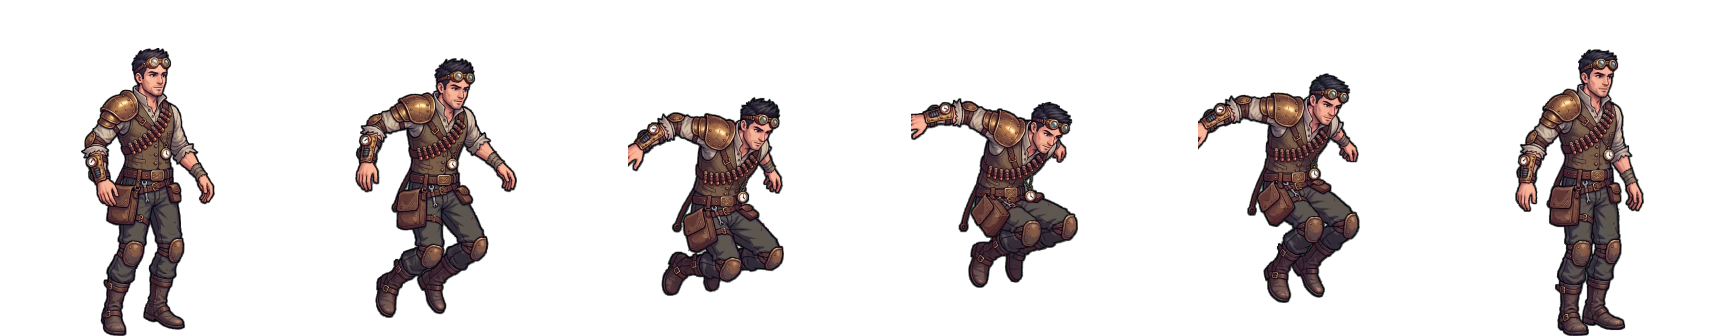
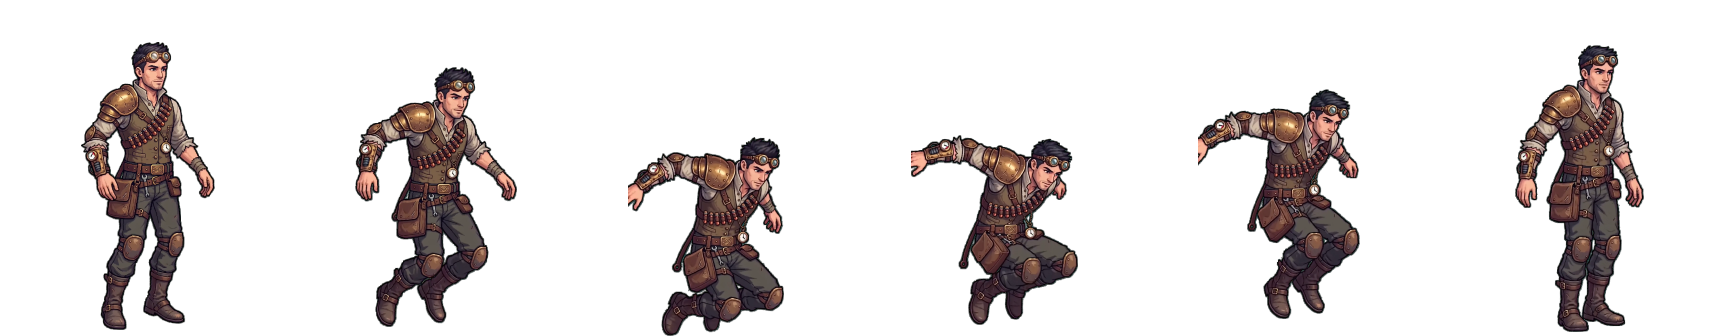
feat(art): jump and fall anchor on the torso, because the sim owns altitude
Chosen on sight from a three-way A/B against a ground line, which is the only
way it could be chosen: foot and head RANGES discard direction and correlation,
so they cannot separate pose deformation from whole-figure drift. That was
Codex plan review blocker 1, and it was right - the plan had declared the
question settled on numbers alone.

What the candidates did, lift per frame in game px:

  jump  feet      0, 32, 44, 19, 30, 51   51px of climb the sim already supplies
        centroid  0,  5, 13, 17, 33, 46
        offset  -32,  0, 12,-13, -2, 19   two frames BELOW the floor
  fall  feet      0, 18, 40, 48, 33,  0   a 48px balloon mid-descent, and back
        centroid  6,  9,  0, 11, 17,  4
        offset  -33,-15,  7, 15,  0,-33   two frames BELOW the floor

stepVertical already moves the sprite every tick, so art that also rises adds a
second, uncorrelated motion. Tracking the vertical centre of mass holds the body
still and lets only the pose change. idle/walk/run stay feet-anchored: there the
ART is what puts the character on the floor, and the lift IS the flight phase.

Centroid lifts are signed, so they are normalised to put the lowest-drawn frame
on the contact line - otherwise a frame lands under the cell floor and the new
vertical guard throws.

The anchor is per-animation config, recorded into lift-profile.json beside the
source coordinates for BOTH landmarks, so the packer's arithmetic is re-derived
in the test rather than trusted.
[…]

diff --git a/tests/unit/sheet-packing.test.ts b/tests/unit/sheet-packing.test.ts
@@ -35,6 +35,7 @@ import { assertSingleRowLayout, packStrip } from '../../tools/gen/sheets.mjs';
 import { readPng } from '../../tools/gen/png.mjs';
 import type { RgbaImage } from '../../tools/gen/png.d.mts';
 import liftProfile from '../../public/assets/config/lift-profile.json';
+import bounds from '../../public/assets/config/character-bounds.json';
 
 /** A cell of `w x h` holding one solid opaque block spanning rows `top..bottom` inclusive. */
 function cellWithFigure(w: number, h: number, top: number, bottom: number, x0 = 4, x1 = 11): RgbaImage {
@@ -137,6 +138,52 @@ describe('packStrip vertical alignment — one baseline per sheet', () => {
     expect(() => packStrip(tall, opts)).toThrow(/clipped by the .*cell vertically|overflows the/i);
   });
 
+  /**
+   * The `centroid` anchor, on a figure built to defeat the feet anchor.
+   *
+   * Frame 1 is the same body drawn at the same height but with its legs "tucked" — the block is
+   * shorter and its bottom is higher, exactly the shape an airborne pose has. Feet-anchoring reads
+   * that as a big lift and shoves the whole body upward; centroid-anchoring sees that the centre of
+   * mass barely moved and leaves it where it is. That difference is the whole argument for the
+   * jump/fall anchor, so it is asserted rather than described.
+   */
+  it('the centroid anchor holds a tucked pose still where the feet anchor would launch it', () => {
+    const tucked = [
+      cellWithFigure(20, 40, 10, 33), // extended: rows 10..33, centroid 21.5
+      cellWithFigure(20, 40, 12, 31), // tucked in from BOTH ends: same centroid 21.5
+    ];
+    const o = { scale: 1, frameWidth: 40, frameHeight: 60, baselineY: 60 };
+    expect(packStrip(tucked, { ...o, anchor: 'feet' }).frames.map((f) => f.liftPx)).toEqual([0, 2]);
+    expect(packStrip(tucked, { ...o, anchor: 'centroid' }).frames.map((f) => f.liftPx)).toEqual([
+      0, 0,
+    ]);
+  });
+
+  it('normalises signed centroid lifts so the lowest-drawn frame rests on the line', () => {
+    // Centroid lifts are signed: a frame whose centre of mass sits BELOW the reference wants to be
+    // drawn under the contact line, which the vertical guard would rightly throw on. Normalising
+    // keeps every inter-frame relationship and only chooses where the set as a whole rests.
+    const cells2 = [
+      cellWithFigure(20, 40, 8, 27), // centroid 17.5
+      cellWithFigure(20, 40, 14, 33), // centroid 23.5 — 6 lower
+    ];
+    const { frames } = packStrip(cells2, {
+      scale: 1,
+      frameWidth: 40,
+      frameHeight: 60,
+      baselineY: 60,
+      anchor: 'centroid',
+    });
+    expect(frames.map((f) => f.liftPx)).toEqual([6, 0]);
+    expect(Math.min(...frames.map((f) => f.liftPx))).toBe(0);
+  });
+
+  it('refuses an anchor it does not implement rather than silently defaulting', () => {
+    expect(() =>
+      packStrip(cells, { ...opts, anchor: 'hips' as unknown as 'feet' }),
+    ).toThrow(/unknown vertical anchor/i);
+  });
+
   it('still throws on a blank frame rather than packing an empty cell (vault 4.16)', () => {
     const blankCell: RgbaImage = { width: 20, height: 30, data: new Uint8ClampedArray(20 * 30 * 4) };
     expect(() => packStrip([cells[0], blankCell], opts)).toThrow(/no opaque pixels/);
@@ -186,46 +233,87 @@ describe('assertSingleRowLayout — the assumption the sheet baseline rests on',
 describe('shipped strips carry the source lift profile (4.19, 4.20)', () => {
   const SHEETS = 'public/assets/characters/brass-courier/sheets';
   const FRAME_WIDTH = 288;
-  const actions = Object.keys(liftProfile.animations);
+  const actions = Object.keys(liftProfile.animations) as (keyof typeof liftProfile.animations)[];
+  const liftsOf = (a: string) =>
+    liftProfile.animations[a as keyof typeof liftProfile.animations].frames.map((f) => f.liftPx);
+  const maxLift = (a: string) => Math.max(...liftsOf(a));
+  const range = (a: string) => Math.max(...liftsOf(a)) - Math.min(...liftsOf(a));
 
   it('covers every animation, so the gate cannot pass by measuring nothing', () => {
     expect(actions).toEqual(['idle', 'walk', 'run', 'jump', 'fall']);
   });
 
-  it.each(actions)('%s: liftPx is the honest round((deepest - sourceMaxY) * scale)', (action) => {
-    const anim = liftProfile.animations[action as keyof typeof liftProfile.animations];
+  it.each(actions)('%s: liftPx is re-derivable from the recorded source coordinates', (action) => {
+    /**
+     * Re-derived here rather than trusted — and deliberately WITHOUT calling `frameLifts`, so the
+     * packer's arithmetic is checked against an independent statement of the same rule rather than
+     * against itself. The manifest records both landmarks for every frame, so either anchor can be
+     * reconstructed from what is committed.
+     */
+    const anim = liftProfile.animations[action];
     expect(anim.frames.length).toBeGreaterThan(0);
-    for (const f of anim.frames) {
-      expect(typeof f.liftPx).toBe('number');
-      expect(f.liftPx).toBe(Math.round((anim.deepestSourceY - f.sourceMaxY) * liftProfile.scale));
-    }
-    // The contact frame defines the line, so exactly one lift must be zero — and if EVERY lift were
-    // zero the comparison below would hold vacuously against a per-frame-anchored strip.
+    expect(['feet', 'centroid']).toContain(anim.anchor);
+
+    const landmark = (f: { sourceMaxY: number; sourceCentroidY: number }) =>
+      anim.anchor === 'feet' ? f.sourceMaxY : f.sourceCentroidY;
+    const reference = Math.max(...anim.frames.map(landmark));
+    const rounded = anim.frames.map((f) =>
+      Math.round((reference - landmark(f)) * liftProfile.scale),
+    );
+    const expected = rounded.map((v) => v - Math.min(...rounded));
+
+    expect(anim.frames.map((f) => f.liftPx)).toEqual(expected);
+    // Normalised, so the lowest-drawn frame rests on the contact line. If EVERY lift were zero the
+    // pixel comparison below would hold vacuously against a per-frame-anchored strip.
     expect(Math.min(...anim.frames.map((f) => f.liftPx))).toBe(0);
   });
 
   it.each(actions)('%s: the drawn gap below the feet matches the manifest exactly', (action) => {
-    const anim = liftProfile.animations[action as keyof typeof liftProfile.animations];
+    const anim = liftProfile.animations[action];
     const strip = readPng(`${SHEETS}/${action}.png`);
     expect(strip.width).toBe(FRAME_WIDTH * anim.frames.length);
     const measured = anim.frames.map((f) => gapBelowFeet(strip, f.index, FRAME_WIDTH));
     expect(measured).toEqual(anim.frames.map((f) => f.liftPx));
   });
 
-  it('run, jump and fall actually leave the ground — the inverted-bob signature (4.20)', () => {
-    // Ranges, not just "not all zero": these are the three the old packer flattened, and their
-    // magnitudes are the whole reason this suite exists. A regression to per-frame anchoring makes
-    // every one of them 0.
-    const maxLift = (a: string) =>
-      Math.max(
-        ...liftProfile.animations[a as keyof typeof liftProfile.animations].frames.map(
-          (f) => f.liftPx,
-        ),
-      );
-    expect(maxLift('run')).toBeGreaterThanOrEqual(10);
-    expect(maxLift('jump')).toBeGreaterThanOrEqual(30);
-    expect(maxLift('fall')).toBeGreaterThanOrEqual(30);
-    // ...while a planted stance stays planted. Idle must NOT acquire a bob.
-    expect(maxLift('idle')).toBeLessThanOrEqual(2);
+  it('each animation uses the anchor its config declares', () => {
+    // The anchor is a decision, not an accident, so the manifest records it and this pins the two
+    // together. `centroid` on a grounded animation would silently unmoor it from the floor.
+    const declared = Object.fromEntries(
+      Object.entries(bounds.animations).map(([k, v]) => [k, v.verticalAnchor]),
+    );
+    const used = Object.fromEntries(actions.map((a) => [a, liftProfile.animations[a].anchor]));
+    expect(used).toEqual(declared);
+    expect(declared).toEqual({
+      idle: 'feet',
+      walk: 'feet',
+      run: 'feet',
+      jump: 'centroid',
+      fall: 'centroid',
+    });
+  });
+
+  it('grounded animations keep the lift the model drew (4.20)', () => {
+    // These are feet-anchored, so the lift IS the flight phase and the lifting boot. A regression
+    // to per-frame anchoring flattens every one of them to 0.
+    expect(maxLift('run')).toBeGreaterThanOrEqual(10); // a real flight phase
+    expect(maxLift('walk')).toBeGreaterThanOrEqual(3); // the trailing boot
+    expect(maxLift('idle')).toBeLessThanOrEqual(2); // ...and a planted stance stays planted
+  });
+
+  it('airborne animations do NOT add altitude of their own — the reason centroid was chosen', () => {
+    /**
+     * The sim's `stepVertical` already moves the sprite every tick, so art that also rises adds a
+     * second, uncorrelated motion. Under feet-anchoring the jump climbed 51 px on its own and the
+     * fall ballooned 48 px through its middle and came back — a visible hitch mid-descent. The
+     * chosen anchor holds the body still and lets only the pose change, and THAT is what this
+     * asserts: a bound, not a floor. Switching either back to `feet` blows it.
+     */
+    expect(range('fall')).toBeLessThanOrEqual(20);
+    expect(range('jump')).toBeLessThanOrEqual(50);
+    // Not vacuous: the poses must still differ frame to frame, or "no balloon" is satisfied by a
+    // sheet that never moves at all.
+    expect(range('jump')).toBeGreaterThan(0);
+    expect(range('fall')).toBeGreaterThan(0);
   });
 });
